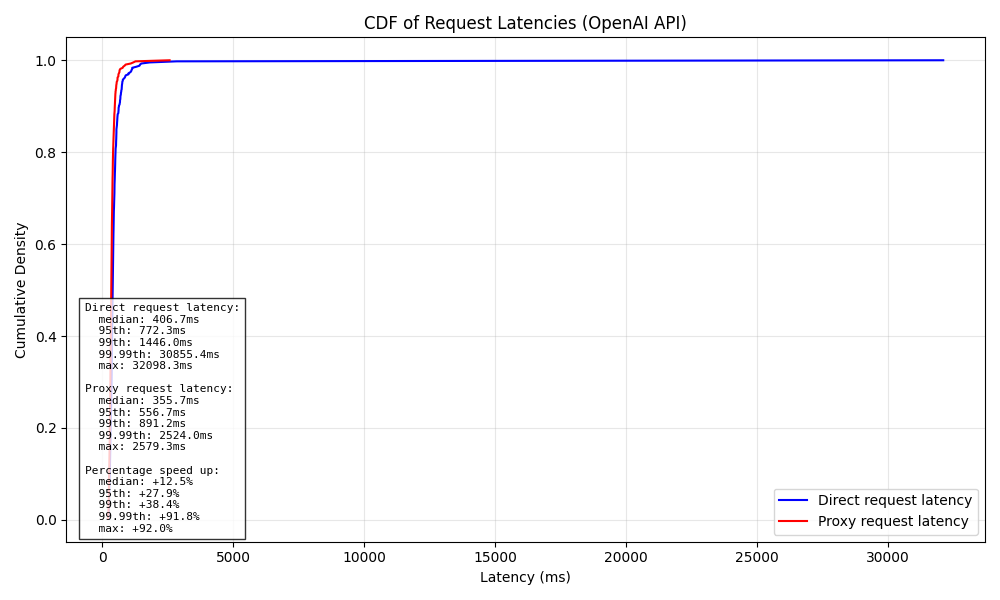
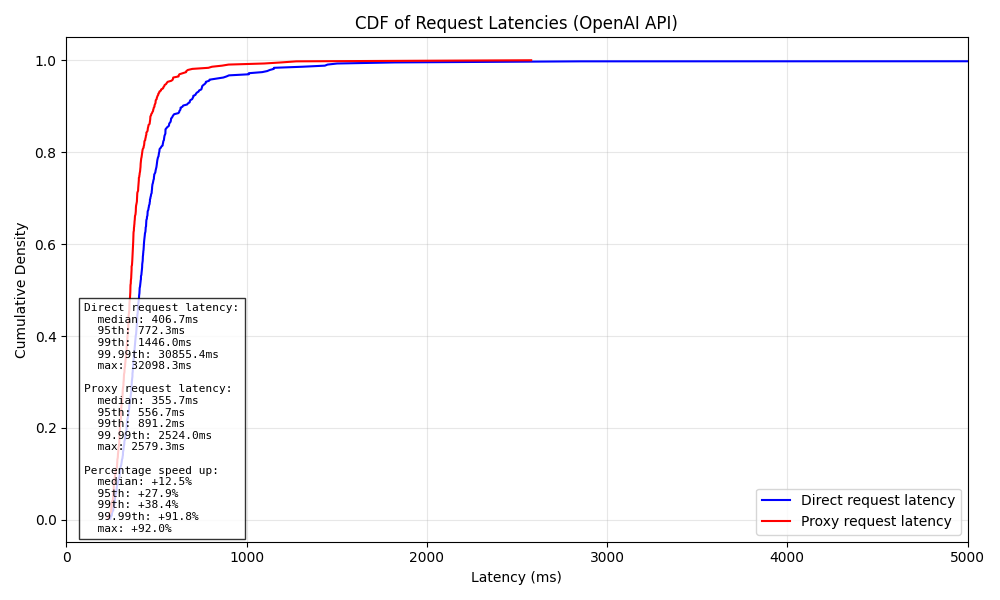
Zoom into the plot.

diff --git a/backend/plot_results.py b/backend/plot_results.py
@@ -1,0 +1,111 @@
+import json
+
+import matplotlib.pyplot as plt
+import numpy as np
+
+
+def compute_cdf(data):
+    sorted_data = np.sort(data)
+    y = np.arange(1, len(sorted_data) + 1) / len(sorted_data)
+    return sorted_data, y
+
+
+def calc_percent_diff(val1, val2):
+    return ((val1 - val2) / val1) * 100
+
+
+def load_latencies_from_files():
+    direct_latencies = []
+    proxy_latencies = []
+
+    try:
+        with open("direct_latencies.json", "r") as f:
+            for line in f:
+                try:
+                    data = json.loads(line)
+                    if "fetchTime" in data:
+                        direct_latencies.append(data["fetchTime"])
+                except json.JSONDecodeError:
+                    continue
+    except FileNotFoundError:
+        print("direct_latencies.json not found")
+
+    try:
+        with open("proxy_latencies.json", "r") as f:
+            for line in f:
+                try:
+                    data = json.loads(line)
+                    if "time_taken" in data:
+                        proxy_latencies.append(data["time_taken"])
+                except json.JSONDecodeError:
+                    continue
+    except FileNotFoundError:
+        print("proxy_latencies.json not found")
+
+    return direct_latencies, proxy_latencies
+
+
+def generate_cdf_chart():
+    direct_latencies, proxy_latencies = load_latencies_from_files()
+
+    if not direct_latencies or not proxy_latencies:
+        print("Not enough data to generate chart. Check if the JSON files exist and contain valid data.")
+        return
+
+    x1, y1 = compute_cdf(direct_latencies)
+    x2, y2 = compute_cdf(proxy_latencies)
+
+    median_diff = calc_percent_diff(np.median(direct_latencies), np.median(proxy_latencies))
+    p95_diff = calc_percent_diff(np.percentile(direct_latencies, 95), np.percentile(proxy_latencies, 95))
+    p99_diff = calc_percent_diff(np.percentile(direct_latencies, 99), np.percentile(proxy_latencies, 99))
+    p9999_diff = calc_percent_diff(np.percentile(direct_latencies, 99.99), np.percentile(proxy_latencies, 99.99))
+    max_diff = calc_percent_diff(np.max(direct_latencies), np.max(proxy_latencies))
+
+    plt.figure(figsize=(10, 6))
+    plt.plot(x1, y1, label="Direct request latency", color="blue")
+    plt.plot(x2, y2, label="Proxy request latency", color="red")
+
+    plt.xlabel("Latency (ms)")
+    plt.ylabel("Cumulative Density")
+    plt.title("CDF of Request Latencies (OpenAI API)")
+    plt.grid(True, alpha=0.3)
+    plt.legend()
+    plt.xlim(0, 5000)
+
+    stats_text = (
+        f"Direct request latency:\n"
+        f"  median: {np.median(direct_latencies):.1f}ms\n"
+        f"  95th: {np.percentile(direct_latencies, 95):.1f}ms\n"
+        f"  99th: {np.percentile(direct_latencies, 99):.1f}ms\n"
+        f"  99.99th: {np.percentile(direct_latencies, 99.99):.1f}ms\n"
+        f"  max: {np.max(direct_latencies):.1f}ms\n\n"
+        f"Proxy request latency:\n"
+        f"  median: {np.median(proxy_latencies):.1f}ms\n"
+        f"  95th: {np.percentile(proxy_latencies, 95):.1f}ms\n"
+        f"  99th: {np.percentile(proxy_latencies, 99):.1f}ms\n"
+        f"  99.99th: {np.percentile(proxy_latencies, 99.99):.1f}ms\n"
+        f"  max: {np.max(proxy_latencies):.1f}ms\n\n"
+        f"Percentage speed up:\n"
+        f"  median: {median_diff:+.1f}%\n"
+        f"  95th: {p95_diff:+.1f}%\n"
+        f"  99th: {p99_diff:+.1f}%\n"
+        f"  99.99th: {p9999_diff:+.1f}%\n"
+        f"  max: {max_diff:+.1f}%"
+    )
+    plt.text(
+        0.02,
+        0.02,
+        stats_text,
+        transform=plt.gca().transAxes,
+        bbox=dict(facecolor="white", alpha=0.8),
+        fontsize=8,
+        family="monospace",
+    )
+
+    plt.tight_layout()
+    plt.savefig("openai_latency_comparison.png")
+    plt.close()
+
+
+if __name__ == "__main__":
+    generate_cdf_chart()

diff --git a/backend/test.py b/backend/test.py
@@ -5,10 +5,11 @@ import time
 from datetime import datetime
 
 import dotenv
-import matplotlib.pyplot as plt
 import numpy as np
 import openai
 import pytest
+
+from plot_results import generate_cdf_chart
 
 dotenv.load_dotenv()
 
@@ -16,15 +17,10 @@ direct_latencies = []
 proxy_latencies = []
 
 direct_client = openai.AsyncOpenAI(
-    api_key=os.getenv("OPENAI_API_KEY"),
-    base_url="https://api.openai.com/v1",
-    timeout=60.0,
+    api_key=os.getenv("OPENAI_API_KEY"), base_url="https://api.openai.com/v1", timeout=60.0
 )
 
-proxy_client = openai.AsyncOpenAI(
-    api_key="dummy-key",
-    base_url="http://localhost:8080/v1",
-)
+proxy_client = openai.AsyncOpenAI(api_key="dummy-key", base_url="http://localhost:8080/v1")
 
 
 def load_prompts():
@@ -142,72 +138,6 @@ async def test_direct_vs_proxy():
         )
     else:
         print("Not enough data to generate chart. Check the error logs.")
-
-
-def compute_cdf(data):
-    sorted_data = np.sort(data)
-    y = np.arange(1, len(sorted_data) + 1) / len(sorted_data)
-    return sorted_data, y
-
-
-def calc_percent_diff(val1, val2):
-    return ((val1 - val2) / val1) * 100
-
-
-def generate_cdf_chart():
-    x1, y1 = compute_cdf(direct_latencies)
-    x2, y2 = compute_cdf(proxy_latencies)
-
-    median_diff = calc_percent_diff(np.median(direct_latencies), np.median(proxy_latencies))
-    p95_diff = calc_percent_diff(np.percentile(direct_latencies, 95), np.percentile(proxy_latencies, 95))
-    p99_diff = calc_percent_diff(np.percentile(direct_latencies, 99), np.percentile(proxy_latencies, 99))
-    p9999_diff = calc_percent_diff(np.percentile(direct_latencies, 99.99), np.percentile(proxy_latencies, 99.99))
-    max_diff = calc_percent_diff(np.max(direct_latencies), np.max(proxy_latencies))
-
-    plt.figure(figsize=(10, 6))
-    plt.plot(x1, y1, label="Direct request latency", color="blue")
-    plt.plot(x2, y2, label="Proxy request latency", color="red")
-
-    plt.xlabel("Latency (ms)")
-    plt.ylabel("Cumulative Density")
-    plt.title("CDF of Request Latencies (OpenAI API)")
-    plt.grid(True, alpha=0.3)
-    plt.legend()
-
-    stats_text = (
-        f"Direct request latency:\n"
-        f"  median: {np.median(direct_latencies):.1f}ms\n"
-        f"  95th: {np.percentile(direct_latencies, 95):.1f}ms\n"
-        f"  99th: {np.percentile(direct_latencies, 99):.1f}ms\n"
-        f"  99.99th: {np.percentile(direct_latencies, 99.99):.1f}ms\n"
-        f"  max: {np.max(direct_latencies):.1f}ms\n\n"
-        f"Proxy request latency:\n"
-        f"  median: {np.median(proxy_latencies):.1f}ms\n"
-        f"  95th: {np.percentile(proxy_latencies, 95):.1f}ms\n"
-        f"  99th: {np.percentile(proxy_latencies, 99):.1f}ms\n"
-        f"  99.99th: {np.percentile(proxy_latencies, 99.99):.1f}ms\n"
-        f"  max: {np.max(proxy_latencies):.1f}ms\n\n"
-        f"Percentage speed up:\n"
-        f"  median: {median_diff:+.1f}%\n"
-        f"  95th: {p95_diff:+.1f}%\n"
-        f"  99th: {p99_diff:+.1f}%\n"
-        f"  99.99th: {p9999_diff:+.1f}%\n"
-        f"  max: {max_diff:+.1f}%"
-    )
-    plt.text(
-        0.02,
-        0.02,
-        stats_text,
-        transform=plt.gca().transAxes,
-        bbox=dict(facecolor="white", alpha=0.8),
-        fontsize=8,
-        family="monospace",
-    )
-
-    plt.tight_layout()
-    plt.savefig("openai_latency_comparison.png")
-    plt.show()
-    plt.close()
 
 
 if __name__ == "__main__":
